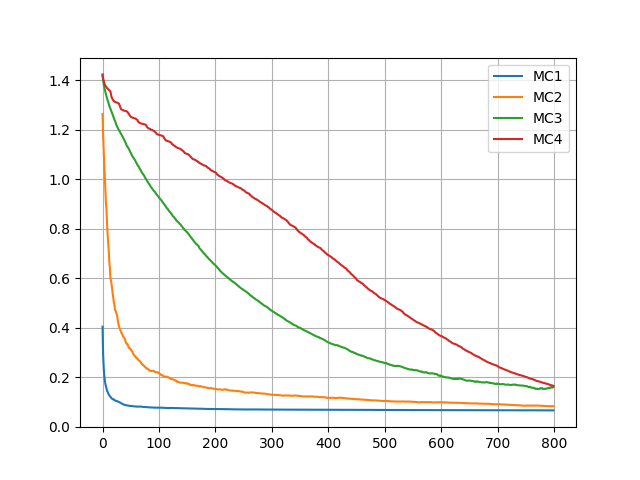
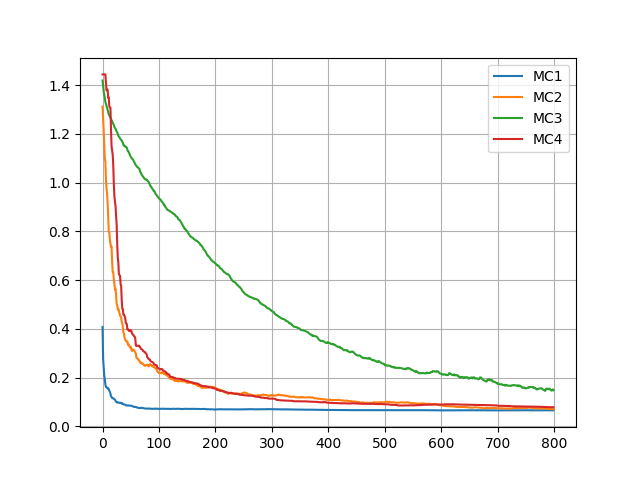
jjjj

diff --git a/基础教程/A7-强化学习/04-无模型的预测/src/Frozen_Lake_RMSE.py b/基础教程/A7-强化学习/04-无模型的预测/src/Frozen_Lake_RMSE.py
@@ -10,7 +10,7 @@ import tqdm
 
 def MultipleProcess(repeat, algo_fun, ds, start_state, episodes, alpha, gamma, ground_truth, every_n_episode):
     print(algo_fun)
-    pool = mp.Pool(processes=20)
+    pool = mp.Pool(processes=8)
     Errors = []
     Values = []
     results = []
@@ -39,7 +39,7 @@ def MultipleProcess(repeat, algo_fun, ds, start_state, episodes, alpha, gamma, g
     mean_errors = np.mean(np.array(Errors), axis=0) 
     # 多次运行的平均值
     final_mean_value = np.mean(np.array(Values), axis=0)
-    print("多次运行的平均值:")
+    print("多次运行的平均 V 值:")
     print(np.round(final_mean_value,2).reshape(4,4))
 
     # 多次运行的平均值误差
@@ -47,13 +47,13 @@ def MultipleProcess(repeat, algo_fun, ds, start_state, episodes, alpha, gamma, g
     print("多次运行的平均值的误差:", final_mean_value_error)
 
     # 得到多次运行的最终的误差
-    final_errors = np.array(Errors)[-1]
+    final_errors = np.array(Errors)[:,-1]
     # 最终的误差值的平均值
     final_mean_error = np.mean(final_errors)
     # 最终的误差值的方差
     final_var_error = np.var(final_errors)
-    print("多次运行的误差的平均值:", final_mean_error)
-    print("多次运行的误差的方差:", final_var_error)
+    print("多次运行的每次误差的平均值:", final_mean_error)
+    print("多次运行的每次误差的方差:", final_var_error)
 
     return mean_errors
 
@@ -89,7 +89,7 @@ if __name__=="__main__":
     checkpoint = 10
     alpha = 0.02
 
-        
+    
     mean_errors = MultipleProcess(repeat, algoMCE.MC1, ds.Data_Frozen_Lake(), ds.States.Start, episodes, alpha, gamma, ground_truth, checkpoint)
     plt.plot(mean_errors, label="MC1")
     
@@ -99,12 +99,12 @@ if __name__=="__main__":
     mean_errors = MultipleProcess(repeat, algoMCE.MC3, ds.Data_Frozen_Lake(), ds.States.Start, episodes, alpha, gamma, ground_truth, checkpoint)
     plt.plot(mean_errors, label="MC3")
     
-    mean_errors = MultipleProcess(repeat, algoMCE.MC4, ds.Data_Frozen_Lake(), ds.States.Start, episodes, alpha, gamma, ground_truth, checkpoint)
-    plt.plot(mean_errors, label="MC4")
-    '''
+    #mean_errors = MultipleProcess(repeat, algoMCE.MC4, ds.Data_Frozen_Lake(), ds.States.Start, episodes, alpha, gamma, ground_truth, checkpoint)
+    #plt.plot(mean_errors, label="MC4")
+    
     mean_errors = MultipleProcess(repeat, algoMCE.MC5, ds.Data_Frozen_Lake(), ds.States.Start, episodes, alpha, gamma, ground_truth, checkpoint)
-    plt.plot(mean_errors, label="MC5")
-    '''
+    plt.plot(mean_errors, label="MC4")
+    
 
     plt.legend()
     plt.grid()

diff --git a/基础教程/A7-强化学习/04-无模型的预测/src/Algorithm_MC_RMSE.py b/基础教程/A7-强化学习/04-无模型的预测/src/Algorithm_MC_RMSE.py
@@ -171,8 +171,9 @@ def MC4(ds, start_state, episodes, alpha, gamma, ground_truth, every_n_episode):
 # batch
 def MC5(ds, start_state, episodes, alpha, gamma, ground_truth, every_n_episode):
     V = np.zeros((ds.num_states))
-    G_value_count_pair = np.zeros((ds.num_states,2))  # state[total value, count of g]
-    G_value_count_pair[:,1] = 1 # 避免被除数为0
+    G_value_count_pair_working = np.zeros((ds.num_states,2))  # state[total value, count of g]
+    G_value_count_pair_backup = np.zeros((ds.num_states,2))  # state[total value, count of g]
+    # G_value_count_pair[:,1] = 1 # 避免被除数为0
     errors = []
 
     for episode in tqdm.trange(episodes):
@@ -196,20 +197,23 @@ def MC5(ds, start_state, episodes, alpha, gamma, ground_truth, every_n_episode):
         for t in range(num_step-1, -1, -1):
             state_value, reward = trajectory[t]
             g = gamma * g + reward
-            G_value_count_pair[state_value, 0] += g     # total value
-            G_value_count_pair[state_value, 1] += 1     # count
+            G_value_count_pair_working[state_value, 0] += g     # total value
+            G_value_count_pair_working[state_value, 1] += 1     # count
         #endfor
 
-        if (episode+1) % every_n_episode == 0:
-            while True:
-                V_old = V.copy()
-                count = G_value_count_pair[:,1]
-                G = G_value_count_pair[:,0] / count
-                updates = alpha * (G - V)
-                V += updates
-
-                if (np.allclose(V_old, V, alpha)):
-                    break   # converage
+        if ((episode+1) % every_n_episode == 0):
+            if (np.min(G_value_count_pair_working[:, 1] + G_value_count_pair_backup[:, 1]) > 2):
+                G_value_count_pair_working += G_value_count_pair_backup
+                while True:
+                    V_old = V.copy()
+                    count = G_value_count_pair_working[:,1]
+                    G = G_value_count_pair_working[:,0] / count
+                    # math: V(s)=V(s) + \alpha (G-V(s))
+                    V = V + alpha * (G - V)
+                    if (np.allclose(V_old, V, alpha)):
+                        G_value_count_pair_backup = G_value_count_pair_working.copy()
+                        G_value_count_pair_working[:,:] = 0
+                        break   # converage
         #endwhile
         #endif
         calculate_error(errors, episode+1, every_n_episode, V, ground_truth)
